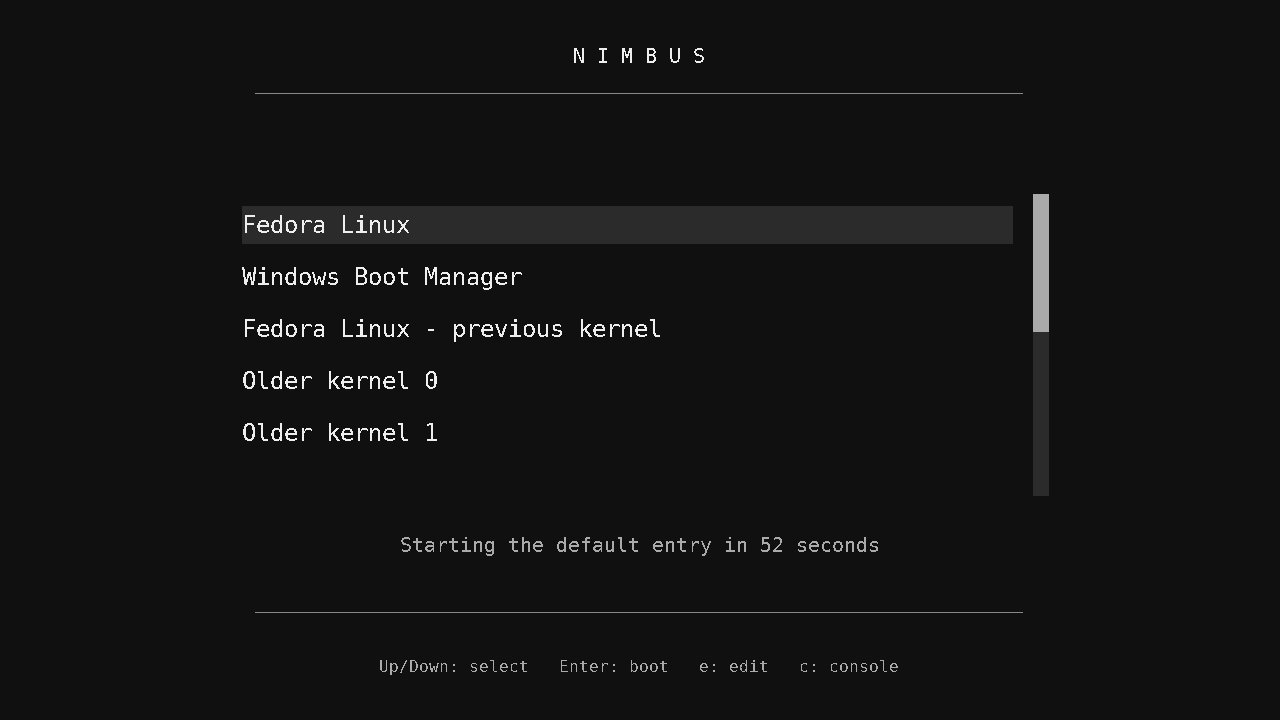
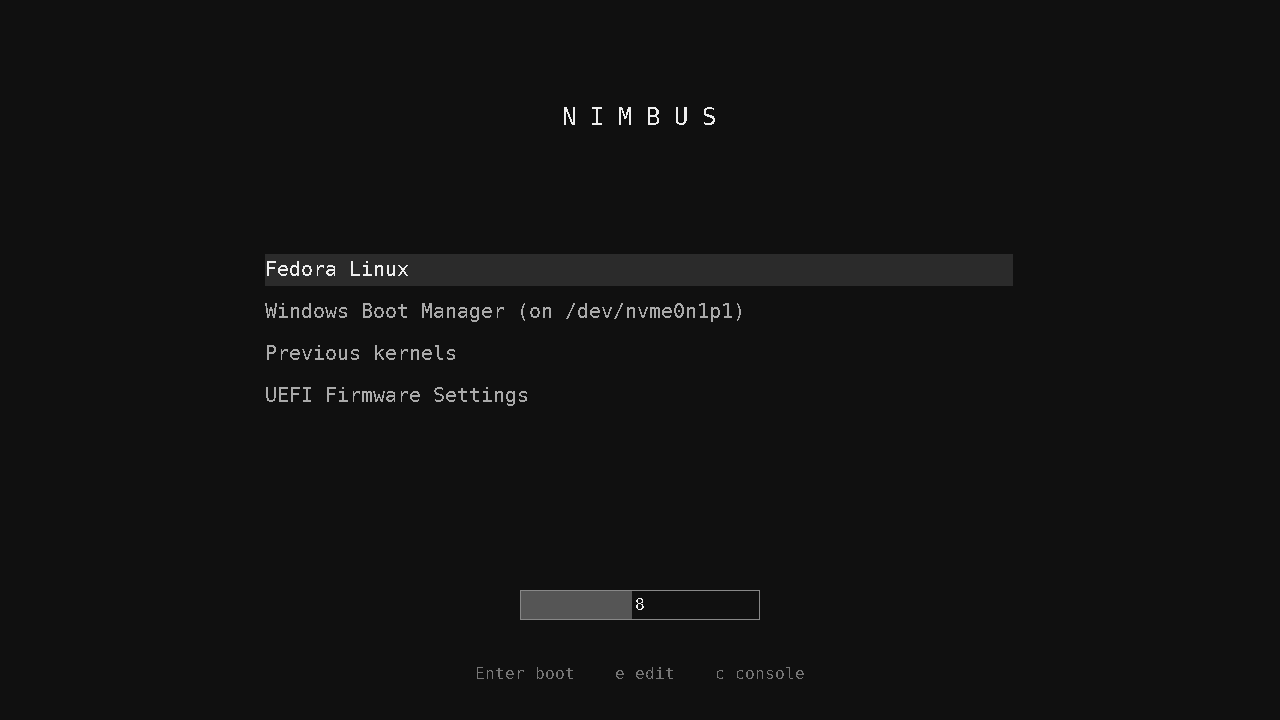
feat(boot-theme): reduce Paper Dark to the wordmark and one row
- Plymouth: the wordmark, a small lock and the passphrase field. After
  unlock the same box becomes the loading bar, so there is no second
  screen. The ordinary disk prompt wording is hidden; other native wording
  and messages stay, small and dim. Shutdown shows the wordmark alone.
- GRUB: the wordmark, the menu, a countdown bar with the remaining seconds
  and one dim line of key hints. The rules are gone.
- GRUB's terminal box fills the screen, so the handover to the kernel is a
  uniform black instead of a black box inside a grey frame.
- The preview fixture mirrors the real menu with a Previous kernels
  submenu and asks with systemd's real prompt wording.

Rendered in the preview container only; the real boot check is in TASKS.

diff --git a/tools/boot-theme/render.py b/tools/boot-theme/render.py
@@ -32,11 +32,15 @@ set gfxmode={width}x{height}
 terminal_output gfxterm
 set theme=$prefix/themes/nimbus/theme.txt
 export theme
-set timeout=60
+set timeout=15
 menuentry 'Fedora Linux' {{ echo 'Preview only'; sleep 60; }}
-menuentry 'Windows Boot Manager' {{ echo 'Preview only'; sleep 60; }}
-menuentry 'Fedora Linux - previous kernel' {{ echo 'Preview only'; sleep 60; }}
-""" + "".join(f"menuentry 'Older kernel {i}' {{ sleep 60; }}\n" for i in range(8)))
+menuentry 'Windows Boot Manager (on /dev/nvme0n1p1)' {{ echo 'Preview only'; sleep 60; }}
+submenu 'Previous kernels' {{
+""" + "".join(f"menuentry 'Fedora Linux (7.2.{i}-200.fc44.x86_64) 44 (Forty Four)' {{ sleep 60; }}\n"
+              for i in range(8, 0, -1)) + """menuentry 'Fedora Linux (0-rescue) 44 (Forty Four)' { sleep 60; }
+}
+menuentry 'UEFI Firmware Settings' { echo 'Preview only'; sleep 60; }
+""")
     theme = Path("/work/system/root/boot/grub2/themes/nimbus")
     run("grub2-mkstandalone", "-O", "x86_64-efi", "--locales=", "--fonts=",
         "-o", str(esp / "BOOTX64.EFI"), f"boot/grub/grub.cfg={config}",
@@ -83,9 +87,10 @@ menuentry 'Fedora Linux - previous kernel' {{ echo 'Preview only'; sleep 60; }}
                 ppm = work / "screen.ppm"
                 command("screendump", {"filename": str(ppm)})
                 run("magick", str(ppm), str(out / f"grub-{width}.png"))
-                for _ in range(7):
-                    command("send-key", {"keys": [{"type": "qcode", "data": "down"}]})
-                    time.sleep(.15)
+                # Open the Previous kernels submenu and scroll to its end.
+                for key in ["down", "down", "ret"] + ["down"] * 8:
+                    command("send-key", {"keys": [{"type": "qcode", "data": key}]})
+                    time.sleep(.3)
                 command("screendump", {"filename": str(ppm)})
                 run("magick", str(ppm), str(out / f"grub-{width}-scroll.png"))
                 command("quit")
@@ -117,7 +122,7 @@ def plymouth(out):
 
             capture("plymouth-boot.png")
             ask = subprocess.Popen(["plymouth", "ask-for-password",
-                                    "--prompt=Unlock encrypted disk"],
+                                    "--prompt=Please enter passphrase for disk WDS500G1X0E-00AFY0 (luks-0000):"],
                                    stdout=subprocess.DEVNULL, env=env)
             time.sleep(1)
             run("xdotool", "type", "sample", env=env)

diff --git a/tools/boot-theme/README.md b/tools/boot-theme/README.md
@@ -11,12 +11,20 @@ installs both trees; the `boot-theme` component owns
 `/etc/nimbus/boot-theme.enabled` and activates them through the `grub-config`
 and `plymouth-theme` triggers.
 
-Plymouth uses its native script plugin for boot activity, password prompts,
-ordinary questions and messages. Password callbacks receive only a bullet
-count. At most 32 dots are shown; this does not limit the actual passphrase.
-Native prompt wording remains visible below the field for alternate volumes,
-PINs and recovery keys. Plymouth owns input handling and submission. The
-activity pulse is indeterminate, not a completion percentage.
+Both screens are deliberately bare: the `N I M B U S` wordmark and one row
+below it. GRUB shows the menu and a countdown bar. Plymouth shows a small
+lock and the passphrase field; after unlock the same box becomes the loading
+bar, so unlocking never changes screens. Shutdown shows the wordmark alone.
+
+Plymouth uses its native script plugin for password prompts, ordinary
+questions and messages. Password callbacks receive only a bullet count. At
+most 18 dots are shown; this does not limit the actual passphrase. The
+ordinary "Please enter passphrase" wording is hidden because the lock says
+the same; any other native wording (alternate volumes, PINs, recovery keys)
+and Plymouth messages stay visible below the field, small and dim. Plymouth
+owns input handling and submission. The bar follows Plymouth's own boot
+progress estimate with an eased minimum that stops at 70%, because the boot
+after unlock is only a few seconds long; it never runs backwards.
 
 Plymouth needs `plymouth-plugin-script`, `plymouth-plugin-label` and
 `dejavu-sans-mono-fonts`, including the required renderer/font assets in the

diff --git a/docs/TASKS.md b/docs/TASKS.md
@@ -91,6 +91,9 @@ Decisions:
   - [ ] Desktop: with `NetworkManager-wait-online.service` disabled,
     `graphical.target` no longer waits for DHCP (14 s measured 2026-09-20),
     Hyprland starts right after auto-login, and Docker and Tailscale work.
+  - [ ] Simplified theme (2026-09-20): rendered in the preview container
+    only. On a real boot check the full-screen GRUB terminal box, the
+    countdown number, the field and lock, and the loading bar after unlock.
   - [ ] Laptop: type the passphrase at the themed prompt.
 - Accepted limitations live in [SPEC.md](SPEC.md#desktop-and-recovery):
   older initramfs keeps the default Plymouth prompt until rebuild; BIOS-only
